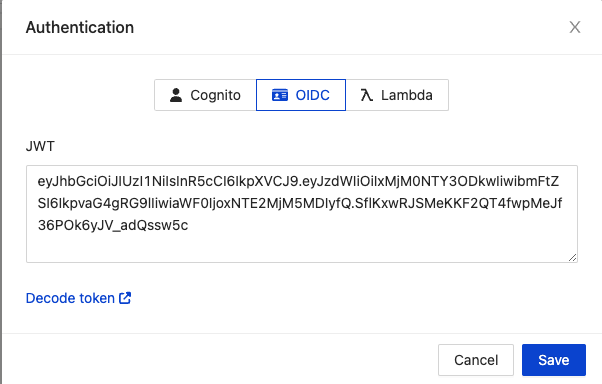
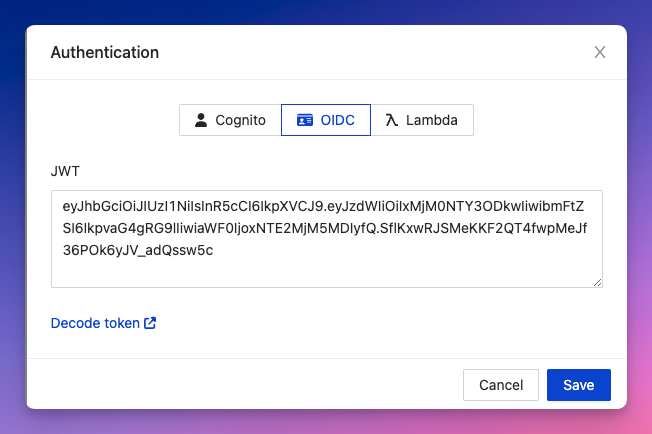
Improve doc and screenshots

Changed region(s): [[0.0, 0.0, 1.0, 1.0], [0.2691, 0.1875, 0.7475, 0.3125], [0.897, 0.0938, 0.9269, 0.125]]

diff --git a/docs/graphql-client/README.md b/docs/graphql-client/README.md
@@ -15,12 +15,13 @@ The client view is composed of various sections, explained below.
 | # | Description |
 |--|--|
 | 1 | API picker<br/><br/> This is how you select the API you would like to work with. You don't need to enter the API URL, it is detected automatically. | 
-| 2 | [Authentication](./authentication)<br/><br/>Opens the authentication window. For more information, read the [authentication](./authentication) section.
-| 3 | The Query view<br/><br/>This is where you write the GraphQL queries, mutations and subscriptions you would like to execute.  |
-| 4 | The variable view<br/><br/>If you use queries that have input variables, this is where you can enter their values, as a JSON. |
-| 5 | The execute button<br/><br/>Press this button to execute the current request. |
-| 6 | The response view<br/><br/>This is where the result of the request is shown when returned by the API. |
-| 7 | The debug button<br/><br/>After you execute a request, this button will take you directly to the [Query Inspector](/query-inspector/query-details) for that request.
+| 2 | [Operations Collection](./collections.md) <br/><br/> Keep your operations organized. | 
+| 3 | [Authentication](./authentication)<br/><br/>Opens the authentication window. For more information, read the [authentication](./authentication) section.
+| 4 | The Query view<br/><br/>This is where you write the GraphQL queries, mutations and subscriptions you would like to execute.  |
+| 5 | The variable view<br/><br/>If you use queries that have input variables, this is where you can enter their values, as a JSON. |
+| 6 | The execute button<br/><br/>Press this button to execute the current request. |
+| 7 | The response view<br/><br/>This is where the result of the request is shown when returned by the API. |
+| 8 | The debug button<br/><br/>After you execute a request, this button will take you directly to the [Query Inspector](/query-inspector/query-details) for that request.
 
 ## Key Features
 

diff --git a/docs/mapping-template-planner/code-evaluation.md b/docs/mapping-template-planner/code-evaluation.md
@@ -8,28 +8,14 @@ This tool allows you to quickly build and test your VTL mapping templates or App
 
 ![Mapping template evaluation](./img/evaluation.png)
 
-## 1. Context Object
+| # | Description |
+|--|--|
+| 1 | [Resolvers Collection](./collections.md) <br/><br/> Keep your resolvers organized. | 
+| 2 | Context Object<br/><br/> This is is where you can enter the data that will be used as the `context` to evaluate the resolver. It is split into several tabs where each tab is one field of the [context object](https://docs.aws.amazon.com/appsync/latest/devguide/resolver-context-reference-js.html). <br/><br/>All values should be represented as a JSON object. |
+| 3 | Mapping Template / JS Resolver code<br/><br/> This is where you can write your VTL mapping template, or JavaScript resolver code. Select the runtime you want to use from the dropdown, and write or paste your resolver in the code editor. |
+| 4 | Click to evaluate the resolver |
+| 5 | Evaluation Result <br/><br/>This is where the result of the evaluation is shown. |
 
-The top section is where you can enter the data that will be used as the `context` to evaluate the mapping template. It is split into several tabs where each tab is one field of the [context object](https://docs.aws.amazon.com/appsync/latest/devguide/resolver-context-reference-js.html).
-
-All values should be represented as a JSON object.
-
-
-## 2. Mapping Template/JS Resolver
-
-This is where you can write your VTL mapping template, or JavaScript resolver code. 
-Select the runtime you want to use from the dropdown, and write or paste your resolver in the code editor below. 
-
-
-After clicking the `Eval` button, the result will show in the right section.
-
-:::info
-For JS resolvers, you will also be prompted to select the function to evaluate (i.e. `request()` or `response()`)
-:::
-
-## 3. Result
-
-This is where the result of the evaluation is shown.
 
 ## Keyboard Shortcuts
 

diff --git a/docs/graphql-client/authentication.md b/docs/graphql-client/authentication.md
@@ -10,8 +10,6 @@ To authenticate, click on the 🔒 icon (`Cmd/Ctrl + Shift + A`) from the Query 
 
 GraphBolt will show you the available authentication methods for the currently selected API.
 
-![Authentication](img/authentication.png)
-
 ## API Keys
 
 If your API has `API_KEY` as an authentication method, GraphBolt automatically fetches all the available API keys. Just select the one you want to use from the dropdown menu.
